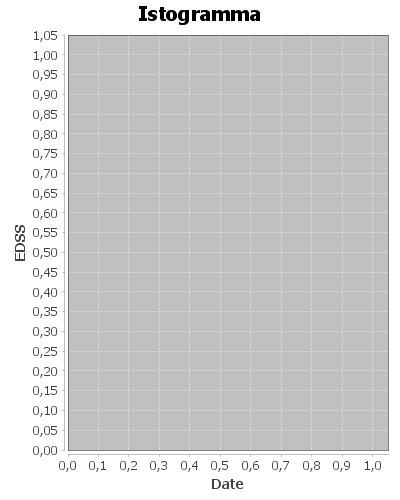
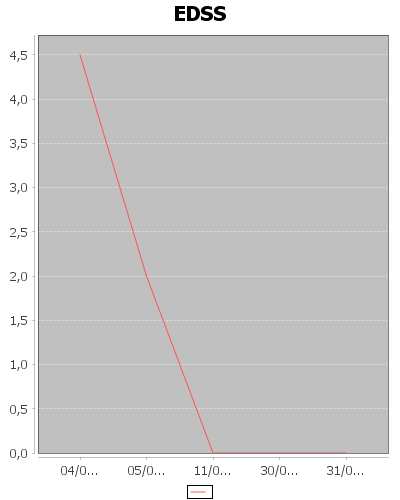
Merge origin/master
Conflicts:
	db/Prova1.accdb

diff --git a/src/gestionepazienti/ControlloAmbulatorialeStandardUI.java b/src/gestionepazienti/ControlloAmbulatorialeStandardUI.java
@@ -9,9 +9,13 @@ import java.util.logging.Level;
 import java.util.logging.Logger;
 import javax.swing.BoxLayout;
 import org.jfree.chart.ChartFactory;
+import org.jfree.chart.ChartPanel;
 import org.jfree.chart.ChartUtilities;
 import org.jfree.chart.JFreeChart;
 import org.jfree.chart.plot.PlotOrientation;
+import org.jfree.data.category.DefaultCategoryDataset;
+import org.jfree.data.xy.XYSeries;
+import org.jfree.data.xy.XYSeriesCollection;
 
 
 public class ControlloAmbulatorialeStandardUI extends javax.swing.JPanel {
@@ -113,8 +117,8 @@ public class ControlloAmbulatorialeStandardUI extends javax.swing.JPanel {
         jPanel5 = new javax.swing.JPanel();
         jLabel7 = new javax.swing.JLabel();
         edss = new javax.swing.JTextField();
-        panelGrafico = new javax.swing.JPanel();
         graficoEDSS = new javax.swing.JButton();
+        panelGrafico = new javax.swing.JPanel();
         jScrollPane7 = new javax.swing.JScrollPane();
         panelEsami = new javax.swing.JPanel();
 
@@ -355,9 +359,9 @@ public class ControlloAmbulatorialeStandardUI extends javax.swing.JPanel {
                         .addComponent(deambulazione, javax.swing.GroupLayout.PREFERRED_SIZE, javax.swing.GroupLayout.DEFAULT_SIZE, javax.swing.GroupLayout.PREFERRED_SIZE))
                     .addGroup(jPanel4Layout.createSequentialGroup()
                         .addComponent(jLabel11)
-                        .addPreferredGap(javax.swing.LayoutStyle.ComponentPlacement.RELATED, 33, Short.MAX_VALUE)
+                        .addPreferredGap(javax.swing.LayoutStyle.ComponentPlacement.RELATED, 93, Short.MAX_VALUE)
                         .addComponent(troncoEnc, javax.swing.GroupLayout.PREFERRED_SIZE, javax.swing.GroupLayout.DEFAULT_SIZE, javax.swing.GroupLayout.PREFERRED_SIZE)))
-                .addGap(0, 7, Short.MAX_VALUE))
+                .addGap(0, 68, Short.MAX_VALUE))
         );
 
         jPanel4Layout.linkSize(javax.swing.SwingConstants.HORIZONTAL, new java.awt.Component[] {cerebrale, deambulazione, piramidale, sensitivo, troncoEnc, visivo});
@@ -402,6 +406,13 @@ public class ControlloAmbulatorialeStandardUI extends javax.swing.JPanel {
             }
         });
 
+        graficoEDSS.setText("graficoEDSS");
+        graficoEDSS.addActionListener(new java.awt.event.ActionListener() {
+            public void actionPerformed(java.awt.event.ActionEvent evt) {
+                graficoEDSSActionPerformed(evt);
+            }
+        });
+
         javax.swing.GroupLayout jPanel5Layout = new javax.swing.GroupLayout(jPanel5);
         jPanel5.setLayout(jPanel5Layout);
         jPanel5Layout.setHorizontalGroup(
@@ -410,37 +421,27 @@ public class ControlloAmbulatorialeStandardUI extends javax.swing.JPanel {
                 .addComponent(jLabel7)
                 .addPreferredGap(javax.swing.LayoutStyle.ComponentPlacement.RELATED)
                 .addComponent(edss, javax.swing.GroupLayout.PREFERRED_SIZE, 79, javax.swing.GroupLayout.PREFERRED_SIZE)
+                .addPreferredGap(javax.swing.LayoutStyle.ComponentPlacement.UNRELATED)
+                .addComponent(graficoEDSS, javax.swing.GroupLayout.PREFERRED_SIZE, 115, javax.swing.GroupLayout.PREFERRED_SIZE)
                 .addGap(0, 0, Short.MAX_VALUE))
         );
         jPanel5Layout.setVerticalGroup(
             jPanel5Layout.createParallelGroup(javax.swing.GroupLayout.Alignment.LEADING)
             .addGroup(jPanel5Layout.createParallelGroup(javax.swing.GroupLayout.Alignment.BASELINE)
                 .addComponent(jLabel7, javax.swing.GroupLayout.PREFERRED_SIZE, 14, javax.swing.GroupLayout.PREFERRED_SIZE)
-                .addComponent(edss, javax.swing.GroupLayout.PREFERRED_SIZE, javax.swing.GroupLayout.DEFAULT_SIZE, javax.swing.GroupLayout.PREFERRED_SIZE))
+                .addComponent(edss, javax.swing.GroupLayout.PREFERRED_SIZE, javax.swing.GroupLayout.DEFAULT_SIZE, javax.swing.GroupLayout.PREFERRED_SIZE)
+                .addComponent(graficoEDSS))
         );
-
-        graficoEDSS.setText("graficoEDSS");
-        graficoEDSS.addActionListener(new java.awt.event.ActionListener() {
-            public void actionPerformed(java.awt.event.ActionEvent evt) {
-                graficoEDSSActionPerformed(evt);
-            }
-        });
 
         javax.swing.GroupLayout panelGraficoLayout = new javax.swing.GroupLayout(panelGrafico);
         panelGrafico.setLayout(panelGraficoLayout);
         panelGraficoLayout.setHorizontalGroup(
             panelGraficoLayout.createParallelGroup(javax.swing.GroupLayout.Alignment.LEADING)
-            .addGroup(panelGraficoLayout.createSequentialGroup()
-                .addGap(128, 128, 128)
-                .addComponent(graficoEDSS, javax.swing.GroupLayout.PREFERRED_SIZE, 115, javax.swing.GroupLayout.PREFERRED_SIZE)
-                .addContainerGap(javax.swing.GroupLayout.DEFAULT_SIZE, Short.MAX_VALUE))
+            .addGap(0, 0, Short.MAX_VALUE)
         );
         panelGraficoLayout.setVerticalGroup(
             panelGraficoLayout.createParallelGroup(javax.swing.GroupLayout.Alignment.LEADING)
-            .addGroup(panelGraficoLayout.createSequentialGroup()
-                .addGap(31, 31, 31)
-                .addComponent(graficoEDSS)
-                .addContainerGap(javax.swing.GroupLayout.DEFAULT_SIZE, Short.MAX_VALUE))
+            .addGap(0, 0, Short.MAX_VALUE)
         );
 
         jScrollPane7.setBackground(new java.awt.Color(149, 238, 234));
@@ -491,8 +492,8 @@ public class ControlloAmbulatorialeStandardUI extends javax.swing.JPanel {
                             .addComponent(jScrollPane3)
                             .addComponent(jPanel5, javax.swing.GroupLayout.DEFAULT_SIZE, javax.swing.GroupLayout.DEFAULT_SIZE, Short.MAX_VALUE)
                             .addComponent(jPanel4, javax.swing.GroupLayout.DEFAULT_SIZE, javax.swing.GroupLayout.DEFAULT_SIZE, Short.MAX_VALUE)
-                            .addComponent(panelGrafico, javax.swing.GroupLayout.DEFAULT_SIZE, javax.swing.GroupLayout.DEFAULT_SIZE, Short.MAX_VALUE))))
-                .addContainerGap(275, Short.MAX_VALUE))
+                            .addComponent(panelGrafico, javax.swing.GroupLayout.Alignment.TRAILING, javax.swing.GroupLayout.DEFAULT_SIZE, javax.swing.GroupLayout.DEFAULT_SIZE, Short.MAX_VALUE))))
+                .addContainerGap(154, Short.MAX_VALUE))
         );
         layout.setVerticalGroup(
             layout.createParallelGroup(javax.swing.GroupLayout.Alignment.LEADING)
@@ -670,18 +671,32 @@ public class ControlloAmbulatorialeStandardUI extends javax.swing.JPanel {
     }//GEN-LAST:event_edssKeyTyped
 
     private void graficoEDSSActionPerformed(java.awt.event.ActionEvent evt) {//GEN-FIRST:event_graficoEDSSActionPerformed
-        JFreeChart chart = ChartFactory.createXYLineChart(
-  "Istogramma", "Anno", "Numero di iscritti",
-  null, PlotOrientation.VERTICAL,
-  true, true, true);
-        try {
-            ChartUtilities.saveChartAsPNG(new java.io.File("function.png"), chart, 400, 500);
-        } catch (IOException ex) {
+        JFreeChart chart = ChartFactory.createLineChart("EDSS", "", "",datiGrafico(), PlotOrientation.VERTICAL,true, true, true);
+        ChartPanel pannelloGrafico=new ChartPanel(chart);
+        pannelloGrafico.setPreferredSize( new java.awt.Dimension( panelGrafico.getWidth() , panelGrafico.getHeight() ) );
+        pannelloGrafico.setBounds(0,0,panelGrafico.getWidth() , panelGrafico.getHeight());
+        panelGrafico.setLayout(null);
+        panelGrafico.add(pannelloGrafico);
+        panelGrafico.setVisible(false);
+        panelGrafico.setVisible(true);  
+    }//GEN-LAST:event_graficoEDSSActionPerformed
+private DefaultCategoryDataset datiGrafico()
+    {
+       
+            DefaultCategoryDataset dataset = new DefaultCategoryDataset( );
+            ResultSet rs=GestioneDatabase.querySelect("SELECT EDSS,Data FROM Controllo_Standard WHERE ID_Paziente="+Pazienti.getCurrID()+" ORDER BY Data ASC");
+            try {
+                while(rs.next())
+                {
+                    dataset.addValue(rs.getDouble(1), "",Utilita.dataToString(rs.getDate(2)));
+                }
+            } catch (SQLException ex) {
             Logger.getLogger(ControlloAmbulatorialeStandardUI.class.getName()).log(Level.SEVERE, null, ex);
         }
-    }//GEN-LAST:event_graficoEDSSActionPerformed
-
-
+            
+            return dataset;
+        
+    }
     // Variables declaration - do not modify//GEN-BEGIN:variables
     private javax.swing.JTextField cerebellare;
     private javax.swing.JTextField cerebrale;
